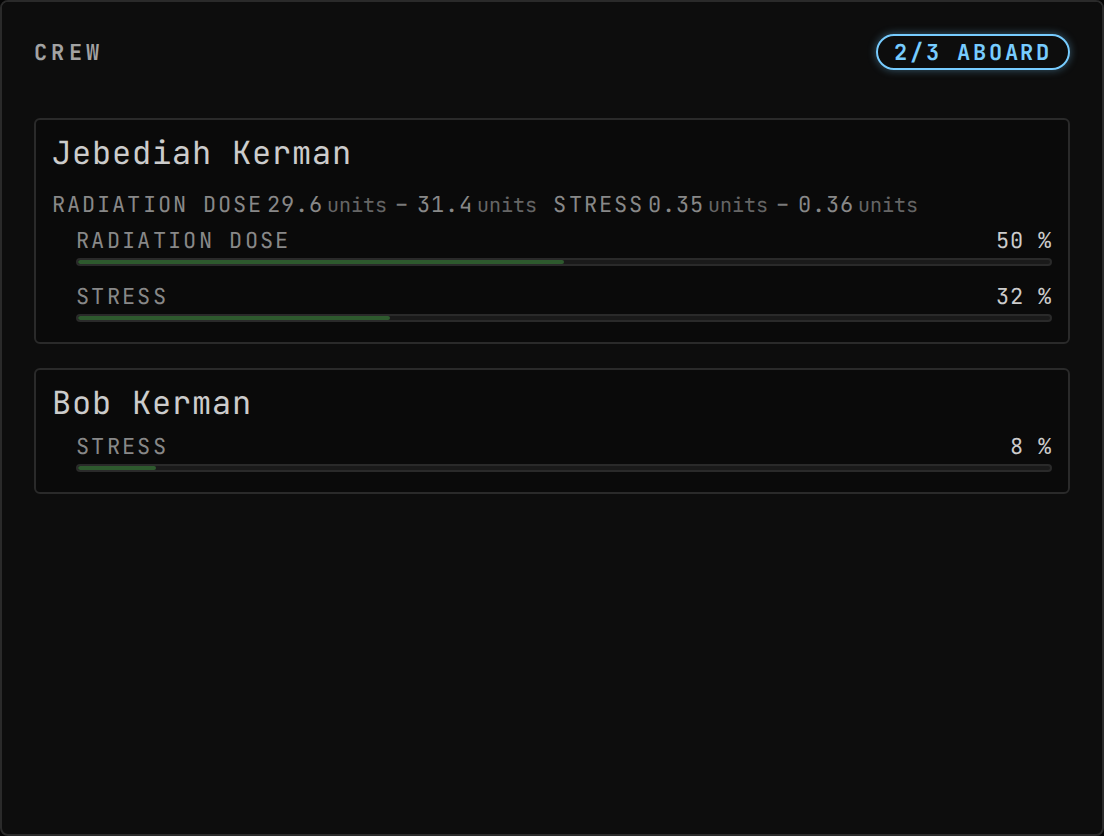
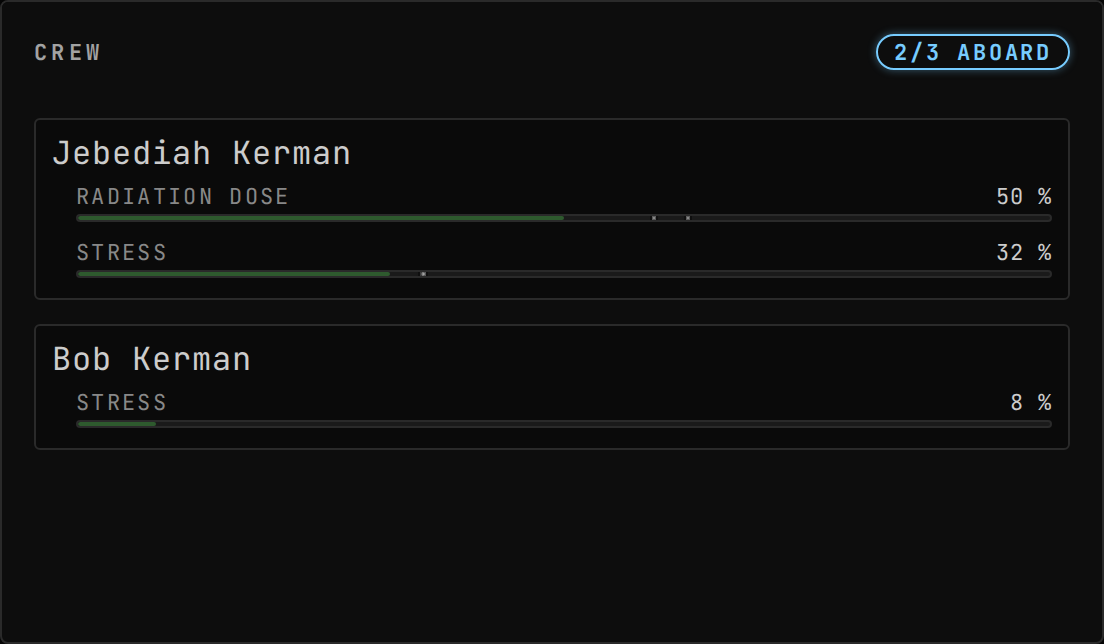
chore: regenerate Uplink pages

diff --git a/mod/GonogoKerbalismUplink/client/README.md b/mod/GonogoKerbalismUplink/client/README.md
@@ -111,14 +111,9 @@ Sun vantage plus vessel exposure: a per-star activity diagram for every star thi
 | `life-support-greenhouse` | `ship-systems.life-support` | – |  | 1 |  |
 | `crew-status-radiation-summary` | `crew-status.summary` | – | only while `kerbalism` | 0 |  |
 | `crew-status-survival-badge` | `crew-status.row-badges` | – | only while `kerbalism` | 0 |  |
-| `crew-survival-reckoned-band` | `crew-status.row-badges` | `kerbalism.crew` | only while `kerbalism` | 2 |  |
 | `science-data-aboard-row-file-manager` | `science-data.aboard-row` | – | only while `kerbalism` | 2 |  |
 
 ![Greenhouse halted in shadow: the growth rate stops and the row names the reason, while the reason named underneath rather than left to a stopped rate](docs/assets/greenhouse-halted-in-the-dark--default.png)
-
-![A reckoned one-sigma band beside each accumulator the model watched move, on the roster row of the kerbal it is about](docs/assets/dose-band-from-a-fitted-rate--default.png)
-
-![The same roster over a two-sample window: the model still carries the accumulators, offers no interval, and the rows draw none](docs/assets/dose-band-the-model-declines--default.png)
 
 ![File Manager controls under a Science Data Aboard row: one subject carrying a file and a sample, so every verb the augment knows renders at once](docs/assets/file-and-sample-on-one-subject--default.png)
 
@@ -129,7 +124,7 @@ Sun vantage plus vessel exposure: a per-star activity diagram for every star thi
 | Contribution | Into | Computed from | Presence |
 | --- | --- | --- | --- |
 | `kerbalism:ship-systems-badge` | `ship-systems.badges` | `processor:kerbalism:ship-systems` | only while `flight` |
-| `kerbalism:crew-survival-meters` | `crew-status.meters` | `processor:kerbalism:crew-survival` | only while `kerbalism` |
+| `kerbalism:crew-survival-meters` | `crew-status.meters` | `processor:kerbalism:crew-survival`, `processor:kerbalism:crew-rule-readings` | only while `kerbalism` |
 | `kerbalism:crew-survival-badge` | `crew-status.badges` | `processor:kerbalism:crew-survival` | only while `kerbalism` |
 | `kerbalism:crew-survival-row-tone` | `crew-status.row-tone` | `processor:kerbalism:crew-survival` | only while `kerbalism` |
 | `kerbalism:space-weather-badge` | `space-weather.badges` | `kerbalism.spaceweather` | only while `kerbalism` |
@@ -137,6 +132,10 @@ Sun vantage plus vessel exposure: a per-star activity diagram for every star thi
 | `kerbalism:ship-map-part-meta` | `ship-map.part-meta` | `kerbalism.lifesupport` | only while `kerbalism` |
 | `kerbalism:ship-map-part-meters` | `ship-map.part-meters` | `vessel.parts`, `kerbalism.profile` | only while `kerbalism` |
 | `kerbalism:resource-ops-processes` | `resource-ops.filters` | `isru.converters` | only while `kerbalism` |
+
+![A reckoned one-sigma band drawn on the meter it is about: one mark per bound, at that bound's own distance from the bar's end](docs/assets/dose-band-from-a-fitted-rate--default.png)
+
+![The same roster over a two-sample window: the model still carries the accumulators, offers no interval, and the meters draw no marks](docs/assets/dose-band-the-model-declines--default.png)
 
 ![Per-kerbal survival meters contributed into Crew Status: one kerbal near a fatal radiation dose, one on a death clock, one healthy](docs/assets/radiation-dose-critical--default.png)
 
@@ -150,6 +149,7 @@ Sun vantage plus vessel exposure: a per-star activity diagram for every star thi
 | --- | --- |
 | processor | `kerbalism:ship-systems` |
 | processor | `kerbalism:crew-survival` |
+| processor | `kerbalism:crew-rule-readings` |
 | forward model | `kerbalism.crew` |
 | forward model | `vessel.resources` |
 
